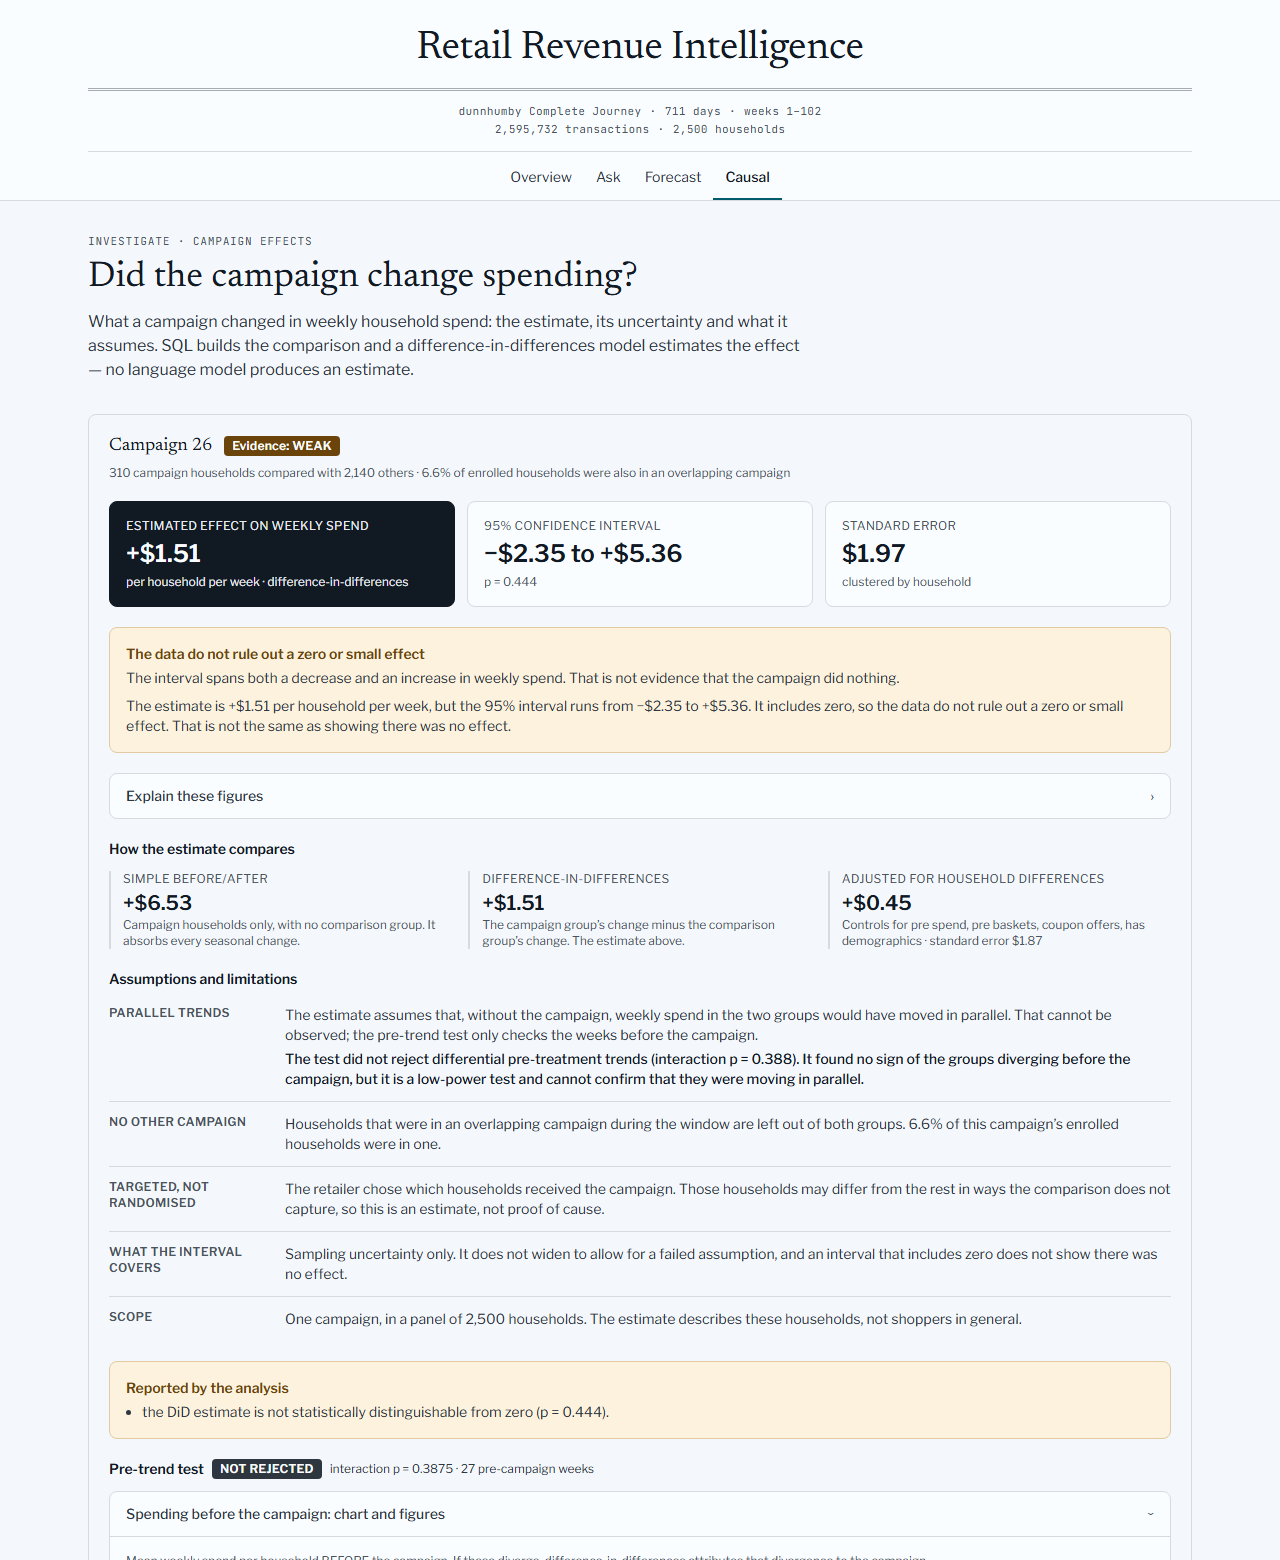
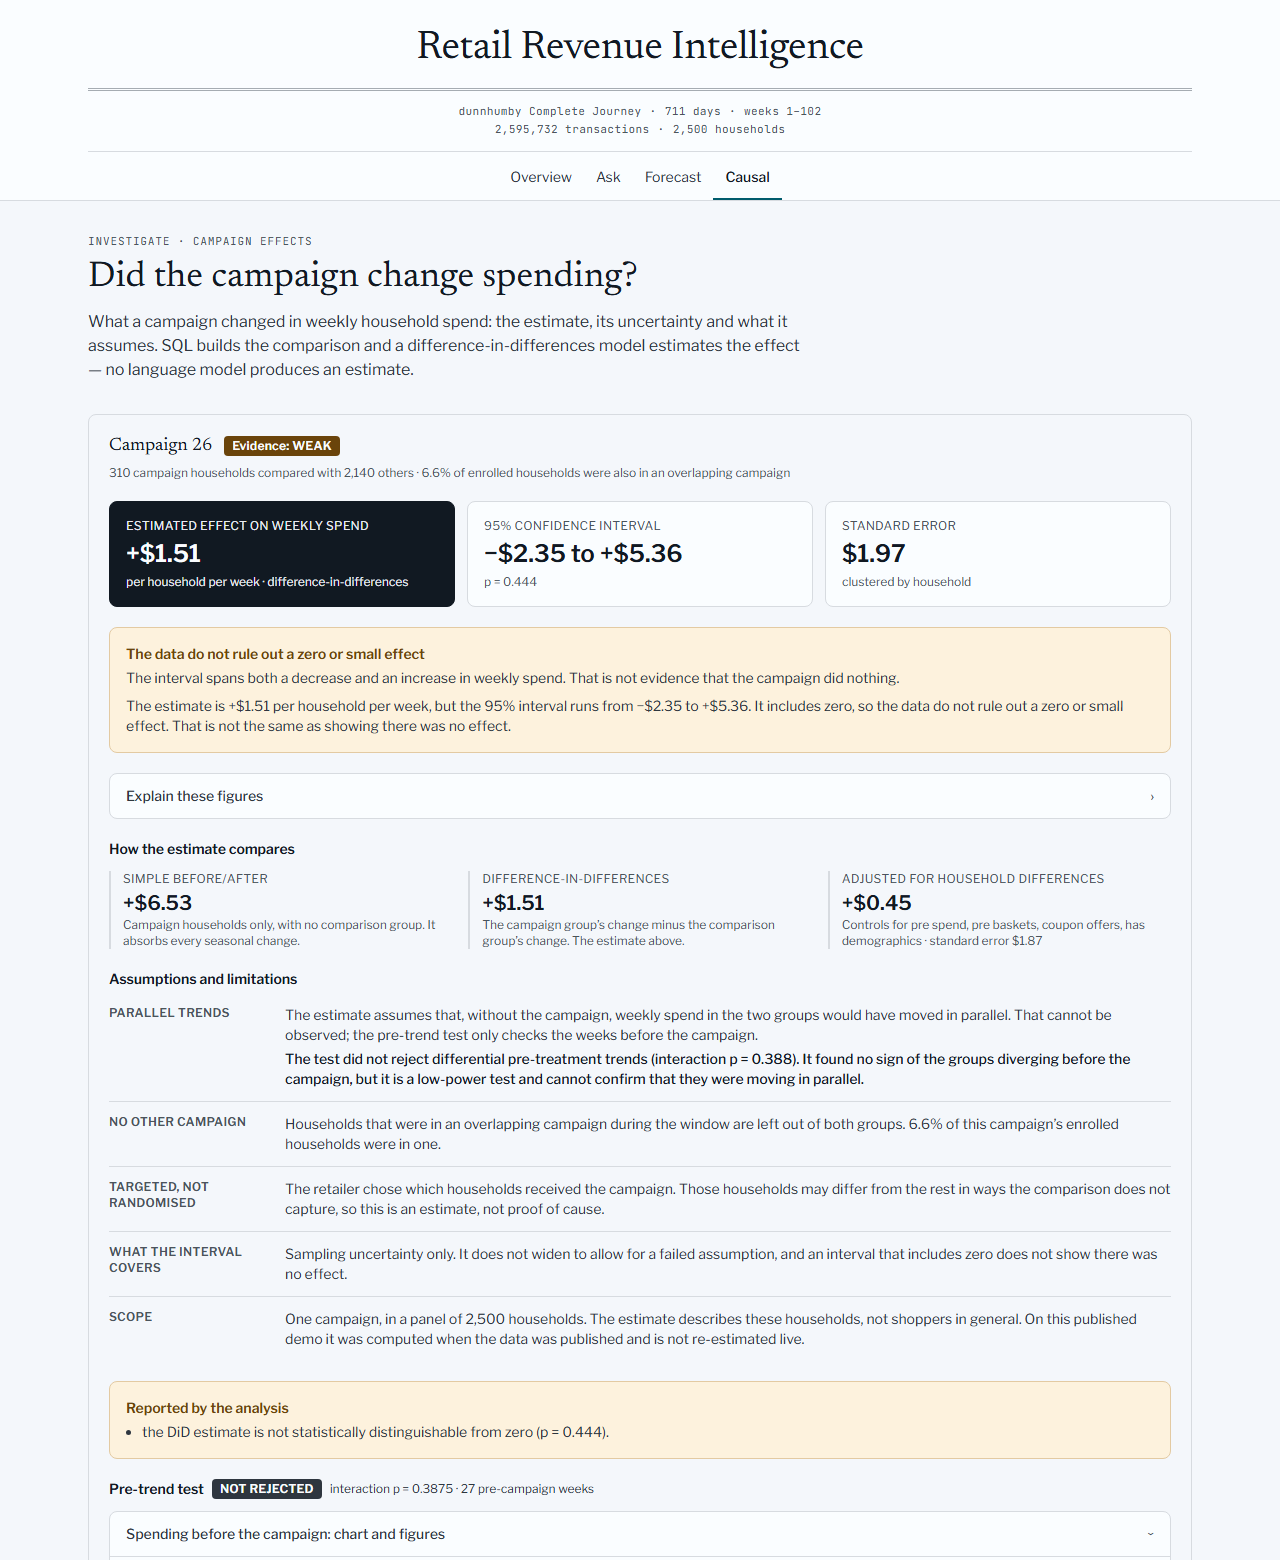
docs: retake the screenshots from production
Forecast, Causal and the phone Forecast capture now come from the live demo
at main e11b37b, so the Forecast shot shows the two-sentence note under the
four cards and the Causal shot shows the published-tier scope line. The
Overview capture from production is byte-identical to the one already in the
repo, and the Ask screenshot was already a production capture, so neither
file changes. The README no longer says some screenshots came from a local
build.

Changed region(s): [[0.0625, 0.8308, 0.9375, 1.0]]

diff --git a/README.md b/README.md
@@ -35,13 +35,11 @@ figure, and the recorded benchmark behind each engine.
 
 | Forecast | Causal |
 |---|---|
-| ![Forecast: next-week forecast, range, measured error, history chart and how the forecast is made](docs/screenshots/forecast-desktop.png) | ![Causal: campaign effect, confidence interval, standard error, plain-English verdict and assumptions](docs/screenshots/causal-desktop.png) |
+| ![Forecast: next-week forecast, range, measured error, the two-sentence note on the machine-learning model, history chart and how the forecast is made](docs/screenshots/forecast-desktop.png) | ![Causal: campaign effect, confidence interval, standard error, plain-English verdict and assumptions](docs/screenshots/causal-desktop.png) |
 
 <img src="docs/screenshots/forecast-mobile.jpg" alt="Forecast on a phone: the headline forecast and its range" width="300">
 
-Captured on 2026-10-02. The Ask screenshot is the live demo (published tier).
-Overview, Forecast and Causal are a production build of this code against the
-local tier, which serves the same figures.
+All five were captured from the live demo (published tier) on 2026-10-02.
 
 ## Architecture
 
